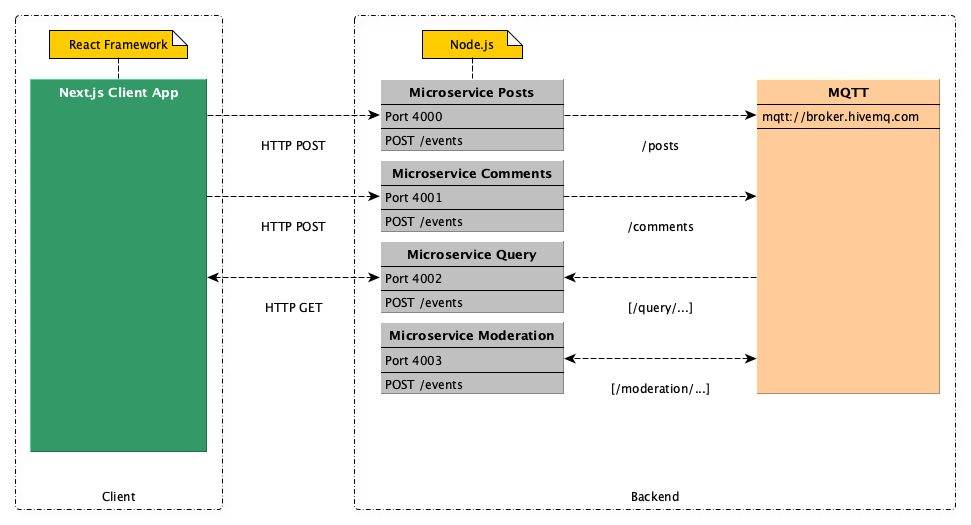
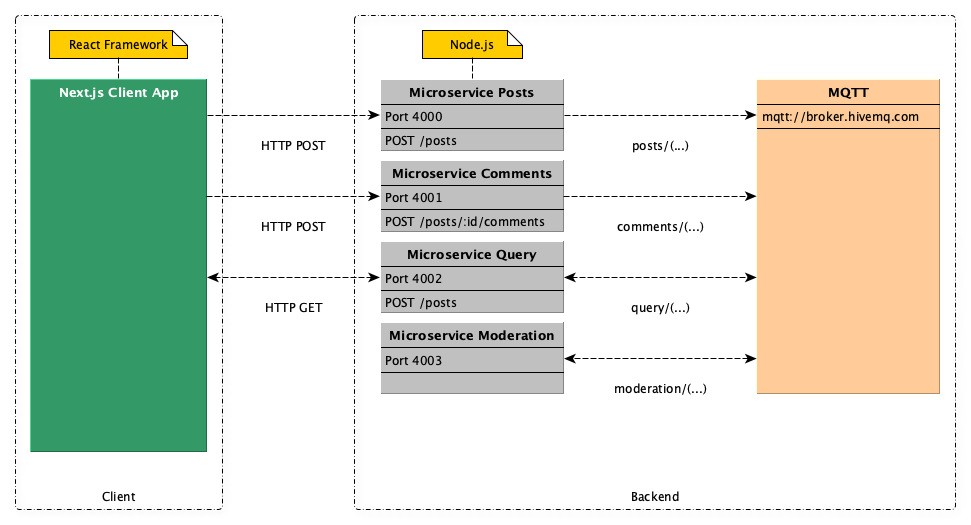
event flow table

diff --git a/README.md b/README.md
@@ -4,6 +4,10 @@
 
 ![Application Overview](./docs/Application.png)
 
+## Event Flow (MQTT Events)
+
+![Event Flow (MQTT Events)](./docs/Event-Data-Flow-Table.png)
+
 ## Folder Structure
 
 ```none
